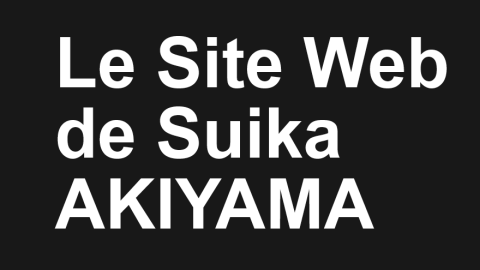
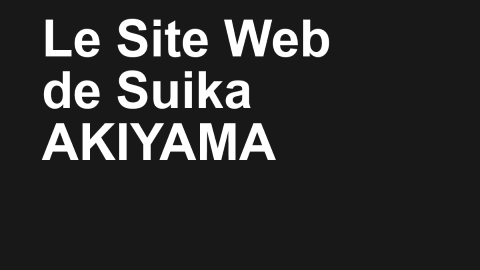
バナー実装

Changed region(s): [[0.0625, 0.0593, 0.9375, 0.5926], [0.0938, 0.6519, 0.7812, 0.8593]]

diff --git a/docs/parts/banner.html b/docs/parts/banner.html
@@ -1,0 +1,99 @@
+<!DOCTYPE html>
+<html>
+	<head>
+		<meta charset="utf-8">
+		<meta name="viewport" content="width=device-width, initial-scale=1.0">
+		<title>プロフィール - シャーロットエースの部屋</title>
+ 		<!-- Google tag (gtag.js) -->
+		<meta name="viewport" content="width=device-width, initial-scale=1.0">
+		<!-- OGPの設定 -->
+		<meta property="og:type" content="article" />
+		<meta property="og:title" content="バナー" />
+		<meta property="og:description" content="相互リンク等で埋め込み用のバナーです" />
+		<meta property="og:url" content="https://charlotteace.github.io/parts/banner" />
+		<meta property="og:site_name" content="シャーロットエースの部屋"/>
+		<meta property="og:image" content="https://charlotteace.github.io/images/ogp/ohome.png" />
+		<!-- Twitterカードの設定 -->
+		<meta name="twitter:card" content="summary_large_image" />
+		<meta name="twitter:image" content="https://charlotteace.github.io/images/ogp/ohome.png" />
+
+	</head>
+	<!-- img src="https://assets.st-note.com/img/1692360106315-0uZzouXtzz.png" width="100vw" height="56vw" -->
+	<body>
+        <style>
+            @charset "utf-8";
+            @import url('https://fonts.googleapis.com/css2?family=Noto+Sans+JP:wght@400;600&display=swap');
+
+            /* webページ全体に適用 */
+            body {
+                font-family: 'Noto Sans JP', sans-serif;
+                font-size: min(50vh,calc(8vw));
+                margin: 0;
+                padding: 0 0 0 0;
+                color: #ffffff;
+                background-color: #1C4C8C;
+                display: flex;
+                justify-content: center;
+                align-items: center;
+                position:relative;
+                height: 100dvh;
+            }
+            a {
+                position: absolute;
+                top: 0;
+                left: 0;
+                height:100%;
+                width: 100%;
+            }
+            .wapper, .banner, p{
+                margin: 0;
+                padding: 0;
+                background-color: #1C4C8C;
+            }
+            .wapper{
+                position:absolute;
+                top:50%;
+                left:50%;
+                transform:translate(-50%,-50%);
+                width:100%;
+            }
+            body{font-size: min(72vh,calc((90vw - 10px) * 0.24));}
+            #si, #room{display: initial;}
+            #charlotte, #br1, #ace, #br2{display: none;}
+            @media (min-aspect-ratio: 9/4) {
+                body{font-size: min(66vh,calc((90vw - 10px) * 0.16));}
+                #ace, #room{display: initial;}
+                #si, #charlotte, #br1, #br2{display: none;}
+            }
+            @media (min-height: 48px){
+                body{font-size: min(22vh,calc((90vw - 10px) * 0.16));}
+                    #charlotte, #br1, #ace, #room{display: initial;}
+                    #si, #br2{display: none;}
+                @media (min-height: 72px) {
+                    body{font-size: min(22vh,calc((90vw - 10px) * 0.16));}
+                    #charlotte, #br1, #ace, #br2, #room{display: initial;}
+                    #si{display: none;}
+                }
+                @media (min-aspect-ratio: 7/2) {
+                    body{font-size: min(33vh,calc((90vw - 10px) * 0.1));}
+                    #charlotte, #ace, #br2, #room{display: initial;}
+                    #si, #br1{display: none;}
+                }
+            }            
+            @media (min-aspect-ratio: 9/2) {
+                body{font-size: min(66vh,calc((90vw - 10px) * 0.08));}
+                #charlotte, #ace, #room{display: initial;}
+                #si, #br1, #br2{display: none;}
+            }
+            
+        </style>
+		<div class="wrapper">
+            <div class="banner">
+                <p>
+                    <span id="si">SIの</span><span id="charlotte">シャーロット</span><br id="br1"><span id="ace">エースの</span><br id="br2"><span id="room">部屋</span>
+                </p>
+            </div>
+            <a href="https://charlotteace.github.io"></a>
+		</div>
+	</body>
+</html>

diff --git a/docs/index.html b/docs/index.html
@@ -72,7 +72,7 @@
 								<h2 class="hcontent-1">
 									制作物・記事一覧
 								</h2>
-								<p class=hcontent-2">
+								<p class="hcontent-2">
 									各所に投稿した記事や関与した制作物についてまとめています。今のところブログを自前で用意する見込みはないので、ほぼすべて外部リンクです。事実上のポータルサイト。結構気合を入れて作ったページです。
 								</p>
 							</div>
@@ -96,25 +96,11 @@
 					</div>
 				</div>
 			</div>
-			<!-- 
+			<!--
 			<h2>相互リンク</h2>
 			<p>現在はこちらからお声かけした方のウェブサイトを掲載しています。準備ができ次第、申請フォームを公開します。</p>
 			<div class="card-group" id="link_exchange">
 				<div class="card">
-					<div class="card-h4e card-h3d card-h2d">
-						<div class="uda">
-							<div class="text">
-								<h3 class="content-1">や-さがされ</h3>
-								<p class="content-2">宇田まなと/春瀬の<br>Webページです</p>
-								<p class="content-3"></p>
-							</div>
-							<img src="images/link_exchange/luda.png" width="30" height="30" alt="gitdmnt.github.io">
-							<a href="https://gitdmnt.github.io"target="_blank rel="noopener noreferrer></a>
-						</div>
-						<div class="thumbnail" style="background-image:url('images/link_exchange/tuda.png')"></div>
-					</div>
-				</div>
-				<div class="card">
 					<div class="card-h4d card-h3d card-h2d">
 						<div class="uda">
 							<div class="text">
@@ -131,6 +117,7 @@
 				<div class="card">
 					<div class="card-h4d card-h3d card-h2d">
 						<div class="uda">
+							<style>.card .uda a{border-left: 10px solid #E07798;}</style>
 							<div class="text">
 								<h3 class="content-1"></h3>
 								<p class="content-2"></p>
@@ -145,14 +132,31 @@
 				<div class="card">
 					<div class="card-h4d card-h3d card-h2d">
 						<div class="sue">
+							<style>.card .sue a{border-left: 10px solid #E74727;}</style>
 							<div class="text">
 								<h3 class="content-1"></h3>
 								<p class="content-2"></p>
 								<p class="content-3"></p>
 							</div>
+							<img src="images/link_exchange/lsue.png" width="30" height="30" alt="gitdmnt.github.io">
 							<a href="https://sueakiyama.github.io/"target="_blank rel="noopener noreferrer></a>
 						</div>
 						<div class="thumbnail" style="background-image:url('images/link_exchange/tsue.png')"></div>
+					</div>
+				</div>
+				<div class="card">
+					<div class="card-h4e card-h3d card-h2d">
+						<div class="haxibami">
+							<style>.card .haxibami a{border-left: 10px solid #5C64F2;}</style>
+							<div class="text">
+								<h3 class="content-1">mythfinder</h3>
+								<p class="content-2">神話募集中 - haxibami</p>
+								<p class="content-3"></p>
+							</div>
+							<img src="images/link_exchange/lhaxibami.ico" width="30" height="30" alt="gitdmnt.github.io">
+							<a href="https://gitdmnt.github.io"target="_blank rel="noopener noreferrer></a>
+						</div>
+						<div class="thumbnail" style="background-image:url('images/link_exchange/tuda.png')"></div>
 					</div>
 				</div>
 			</div>

diff --git a/docs/debug.html b/docs/debug.html
@@ -58,7 +58,13 @@
 			<h1 id="info">実験室</h1>
 			
 			<p class="info_item">このページを見つけたあなたは運がいい！ここでは日々新機能<a id="ref-1" href="#footnote-1">*1</a>のトライアルが実装されてます。たまにアクセスすると、未公開の機能がみられるかもしれませんね。<a id="ref-2" href="#footnote-2">*2</a></p>
-			<p class="info_item">いまはスマホ版のハンバーガーメニューの実装に取り組み終わったところです。<a href="https://blog.to-ko-s.com/css-hamburger-menu/">大いに参考にしたサイト</a></p>
+			<p class="info_item">いまは相互リンク用のバナーを作成中です。<a href="https://blog.to-ko-s.com/css-hamburger-menu/">大いに参考にしたサイト</a></p>
+			<iframe id="suikamongame" src="parts/banner.html" scrolling="no" frameborder="0" width="100" height="80"></iframe>
+			<iframe id="suikamongame" src="parts/banner.html" scrolling="no" frameborder="0" width="120" height="60"></iframe>
+			<iframe id="suikamongame" src="parts/banner.html" scrolling="no" frameborder="0" width="200" height="40"></iframe>
+			<iframe id="suikamongame" src="parts/banner.html" scrolling="no" frameborder="0" width="100" height="40"></iframe>
+			<iframe id="suikamongame" src="parts/banner.html" scrolling="no" frameborder="0" width="70" height="40"></iframe>
+			
 			<div class="quote">
 				<p class="quote-body">引用のテスト</p>
 				<p class="quote-body">長い引用は改行も必要ですから、それの状態を見てやることも必要なわけですね。長いフレーズってなかなかすぐには思いつきませんね、例えば「東京特許許可局局長今日急遽休暇帰郷」とか……</p>

diff --git a/docs/css/contents.css b/docs/css/contents.css
@@ -58,8 +58,6 @@
 .card .twitter a{border-left: 10px solid #1da1f2;}
 .card .melonbooks a{border-left: 10px solid #18bd67;}
 .card .ace a{border-left: 10px solid #1C4C8C;}
-.card .uda a{border-left: 10px solid #E07798;}
-.card .sue a{border-left: 10px solid #E74727;}
 
 
 .card img{
